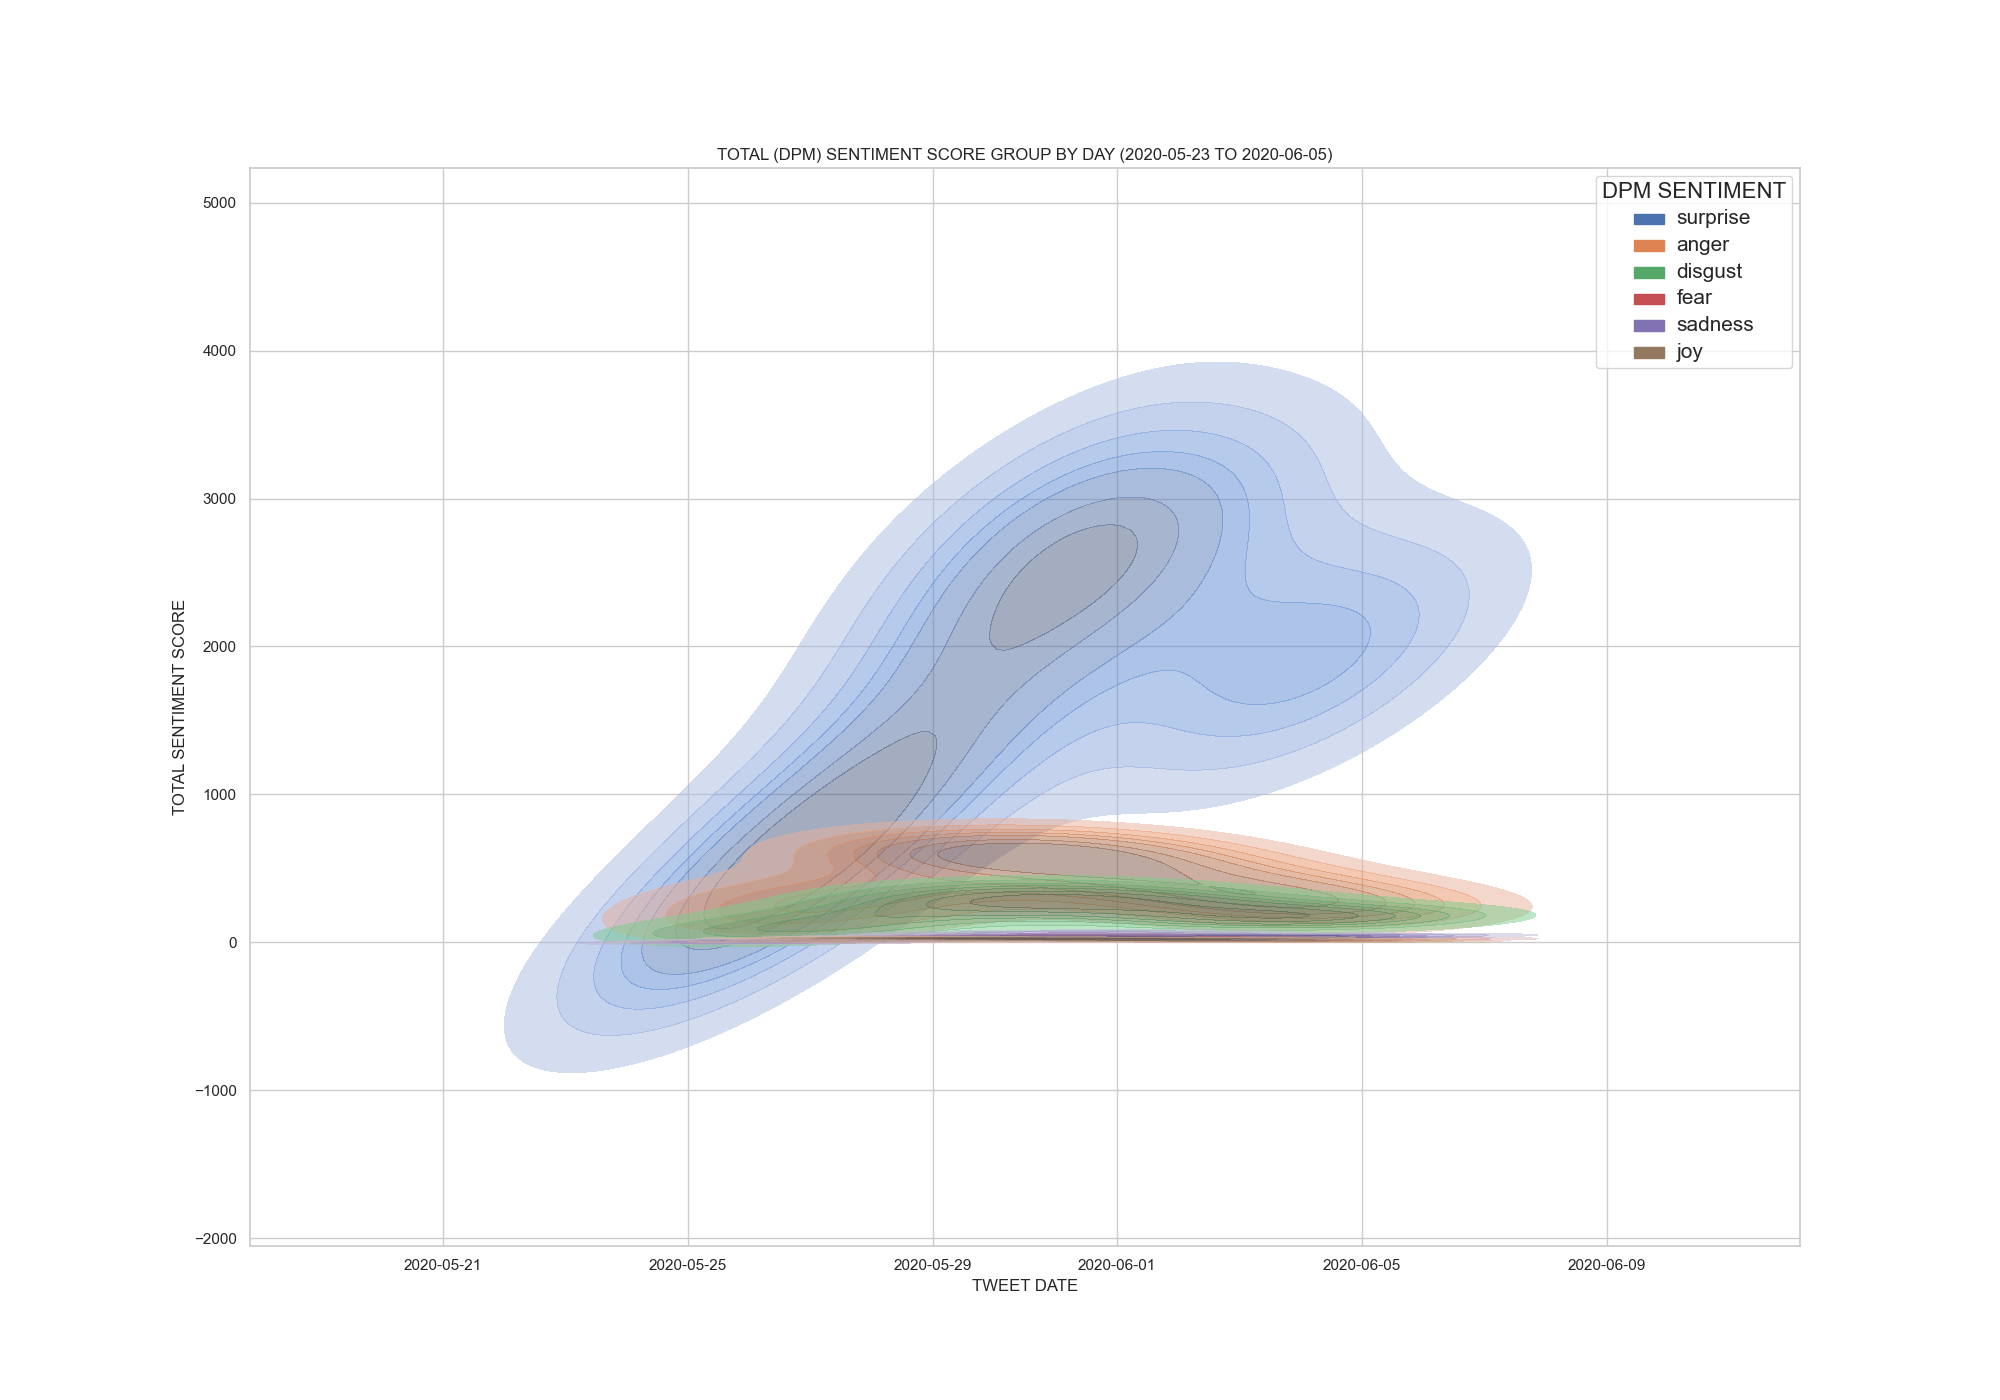
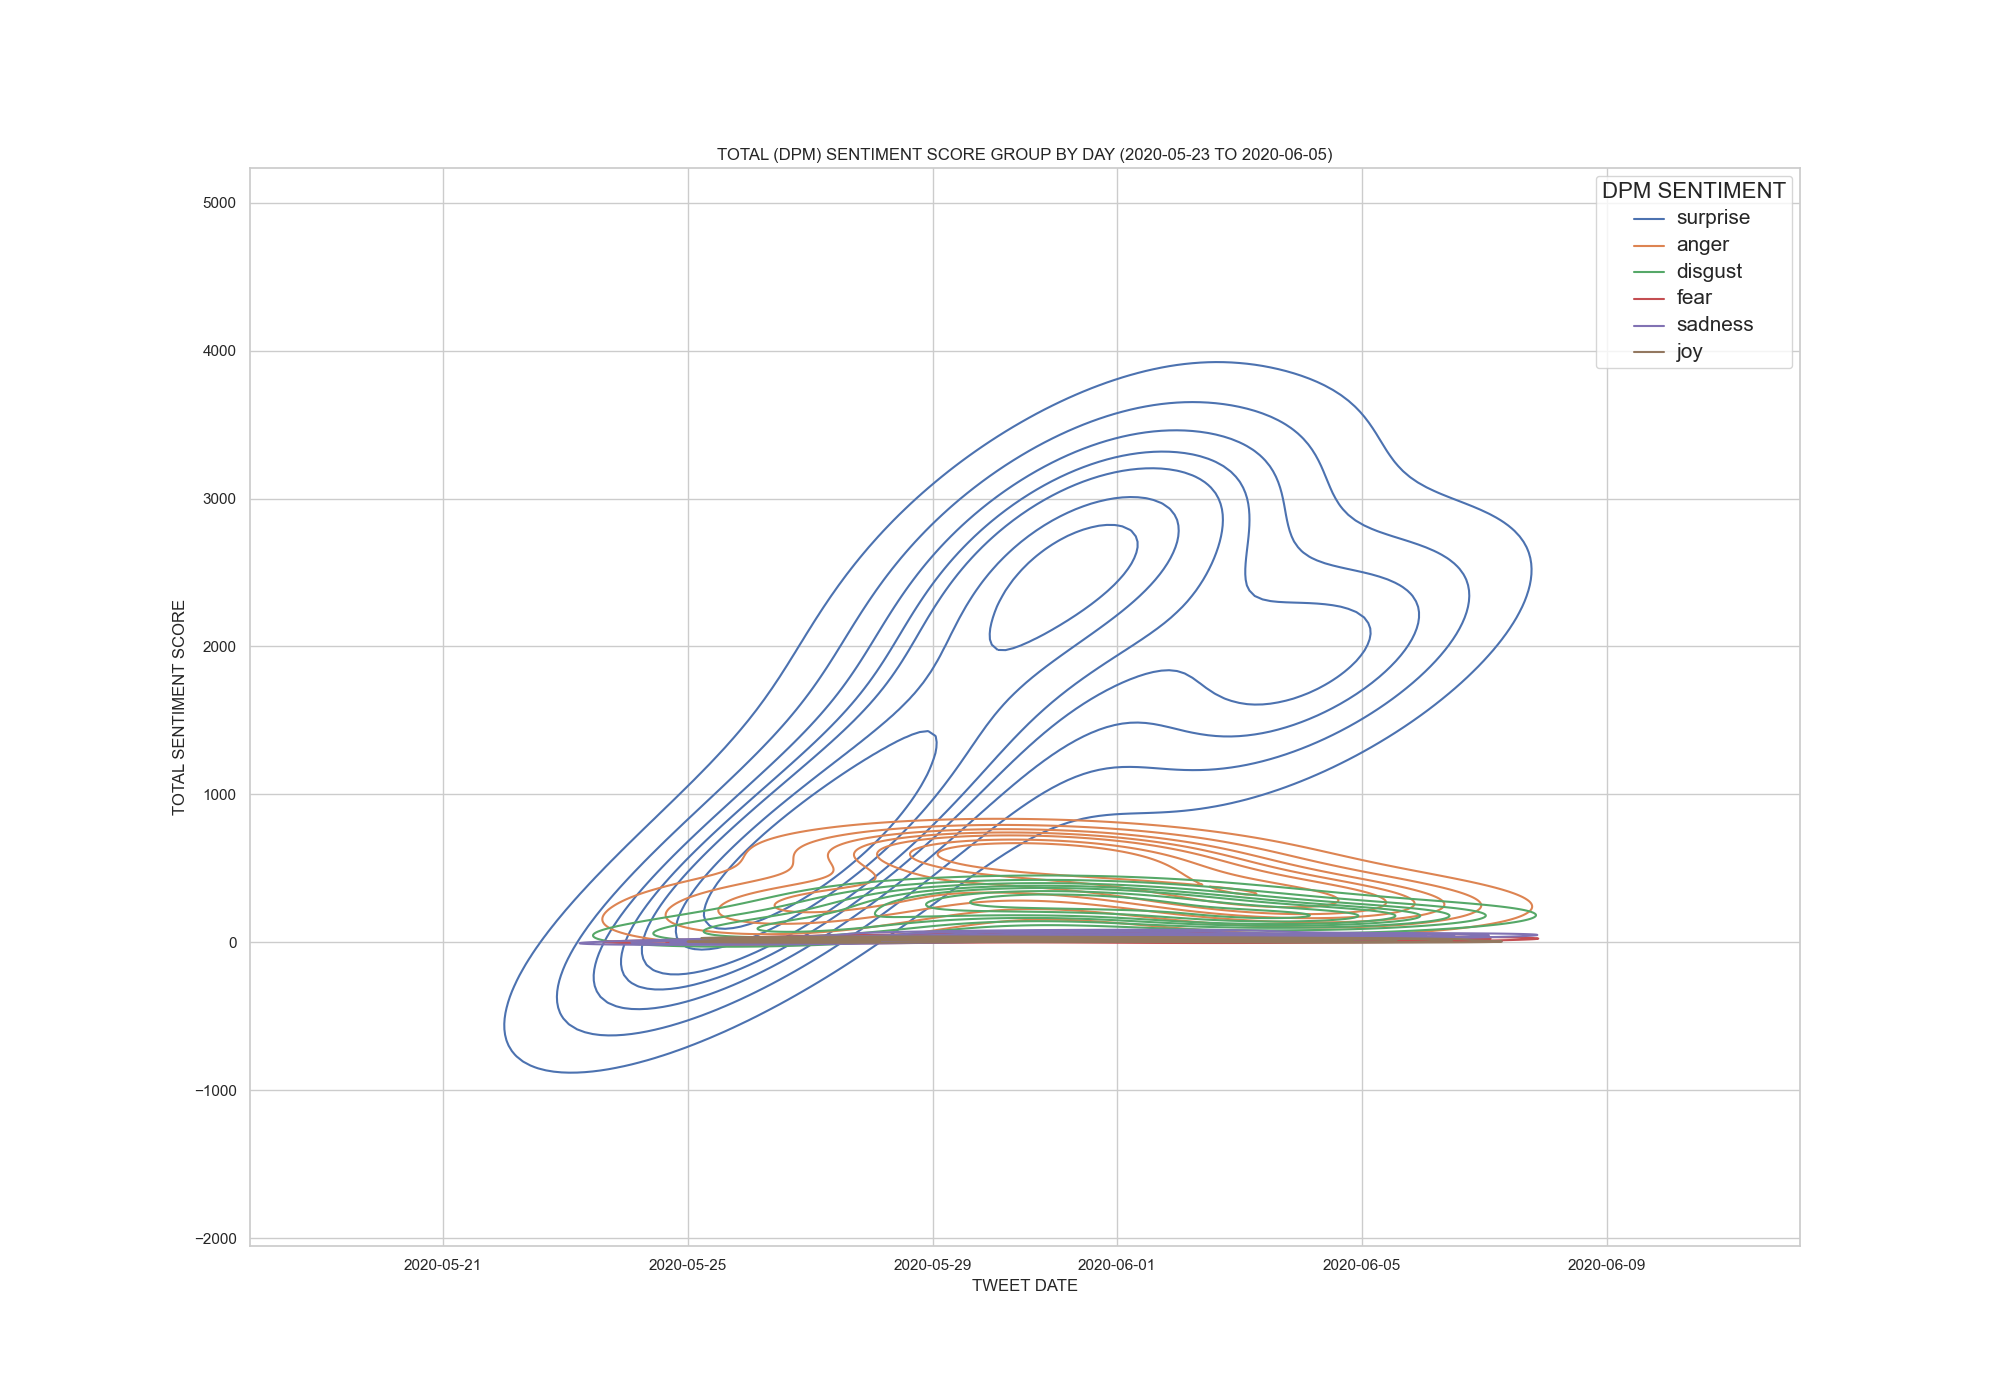
update img

Changed region(s): [[0.248, 0.2457, 0.775, 0.7679], [0.806, 0.1536, 0.837, 0.2764]]

diff --git a/Controller/Visualization/KdePlotViz.py b/Controller/Visualization/KdePlotViz.py
@@ -60,7 +60,7 @@ def plot(y_attr, x_attr, h_attr, df, y_attr_title, x_attr_title, title, legend_t
     fig, ax = plt.subplots(figsize=(20, 14))
 
     # CREATE LINE PLOT
-    fig = sns.kdeplot(data=df, x=x_attr, y=y_attr, hue=h_attr, common_norm=False, alpha=.5, levels=8, fill=True, thresh=0.15)
+    fig = sns.kdeplot(data=df, x=x_attr, y=y_attr, hue=h_attr, common_norm=False, levels=8, fill=False, thresh=0.15)
     #fig = sns.lineplot(data=df, x=x_attr, y=y_attr, hue=h_attr)
     fig.set(ylabel=y_attr_title.upper(), xlabel=x_attr_title.upper())
     plt.title(title.upper())
